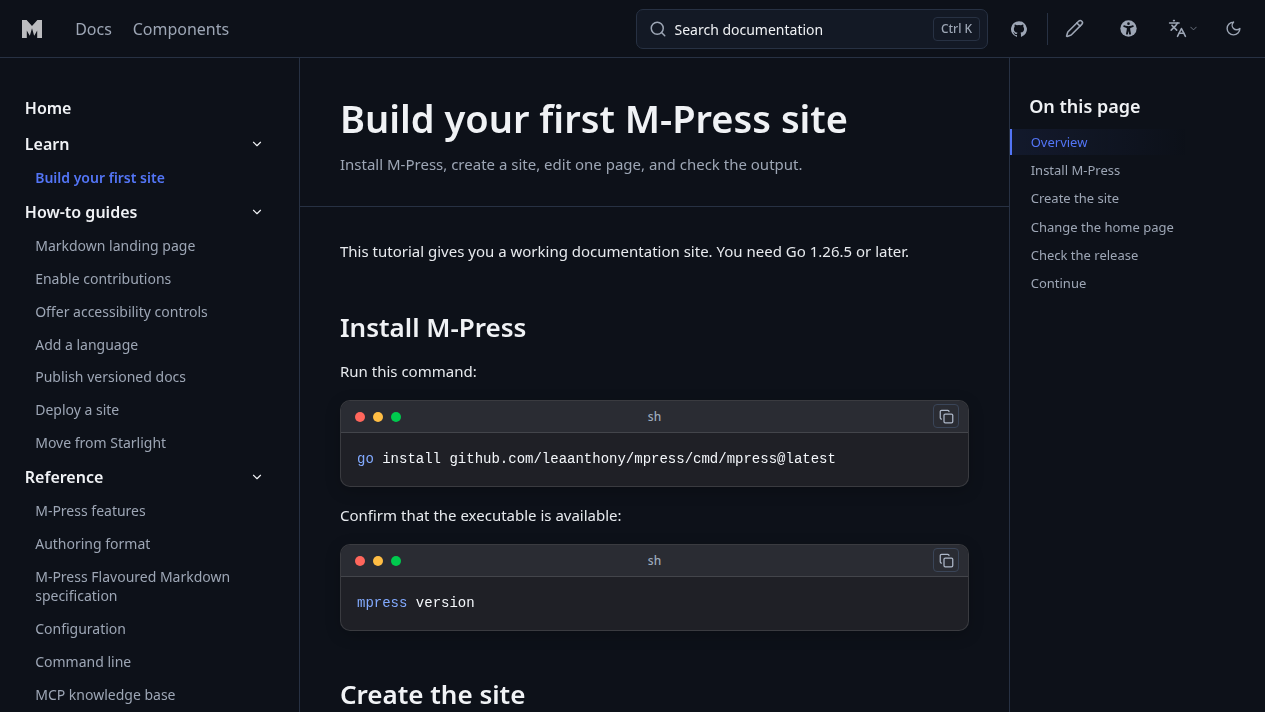
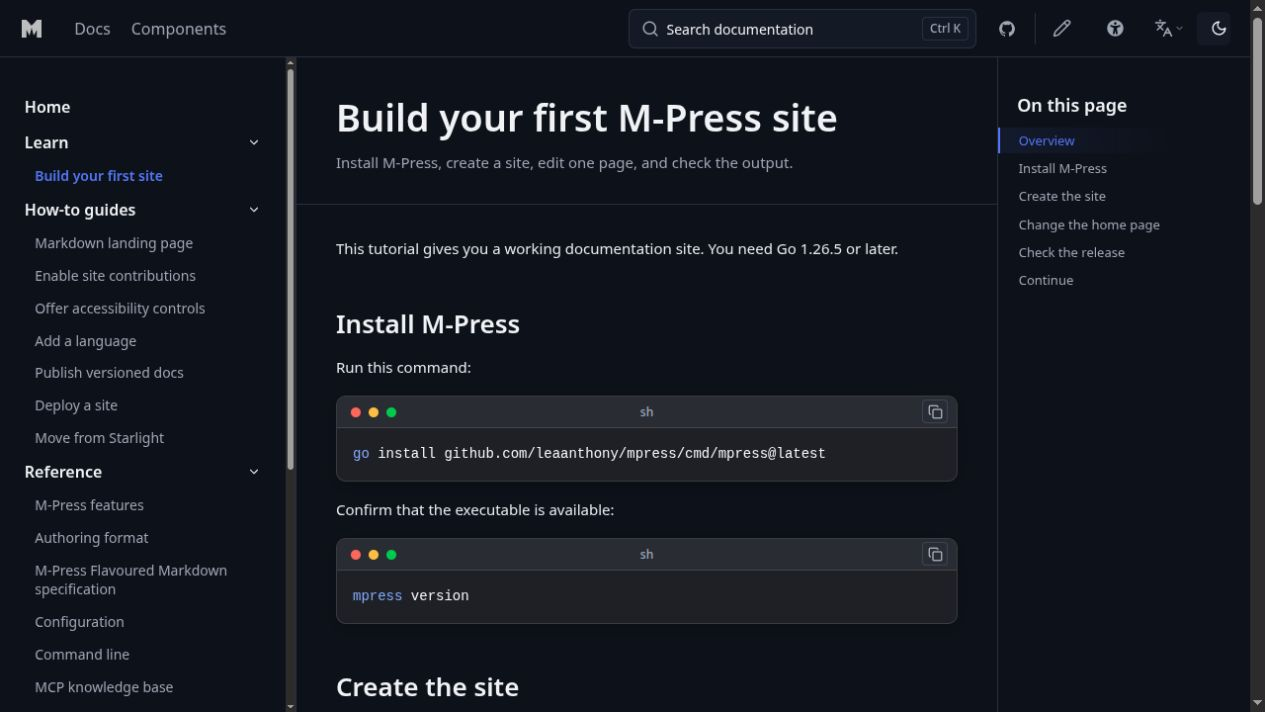
docs: replace homepage illustrations with real browser captures

diff --git a/docs-theme.css b/docs-theme.css
@@ -18,3 +18,13 @@
     height: 23px;
   }
 }
+
+.mp-home-accessibility-screenshot {
+  width: min(100%, 560px);
+  justify-self: center;
+}
+
+.mp-home-mobile-screenshot {
+  width: min(100%, 340px);
+  justify-self: center;
+}

diff --git a/docs/index.md b/docs/index.md
@@ -24,7 +24,7 @@ M-Press gives you rich components, private search, reader accessibility controls
 @end
 
 @column{variant=site-screenshot|class=mp-home-site-screenshot-hero}
-@image{light="/images/mpress-docs-light.png" dark="/images/mpress-docs-dark.png" alt="The generated M-Press tutorial site" expand}
+@image{light="/images/mpress-docs-light.png" dark="/images/mpress-docs-dark.png" alt="The M-Press first-site tutorial in the browser" expand}
 @end
 @end
 @end
@@ -188,32 +188,8 @@ One presentation cannot suit every reader. The accessibility menu is enabled by 
 @button[Read the accessibility reference](/accessibility/){secondary}
 @end
 
-@column{variant=story-visual|class=mp-home-accessibility-carousel}
-@carousel{label="Accessibility options"}
-## Reading that fits you
-
-Choose a text size, readable font, relaxed spacing, bionic emphasis, and a page width that is comfortable on your screen.
-
-- Text size: Default, Large, Larger
-- Page width: Relative or fixed
-- Readable font and relaxed spacing
----
-## Keep your place
-
-Reduce visual distraction without changing the content.
-
-- Focus mode dims navigation
-- Reading guide follows the pointer
-- Reduced motion stops non-essential animation
----
-## Improve colour and contrast
-
-Make links and controls easier to identify.
-
-- High contrast
-- Underlined links
-- Colour profiles for common colour-vision needs
-@end
+@column{variant=site-screenshot|class=mp-home-accessibility-screenshot}
+@image{light="/images/mpress-accessibility-light.png" dark="/images/mpress-accessibility-dark.png" alt="The open accessibility menu showing the complete Reading panel, including layout, reading column, font, spacing, and bionic reading controls" expand}
 @end
 @end
 @end
@@ -288,6 +264,22 @@ The development site exposes the work that is usually hidden across scripts and 
 
 @column{variant=story-visual|class="mp-home-story-image mp-home-config-screenshot"}
 @image{light="/images/mpress-config-light.png" dark="/images/mpress-config-dark.png" alt="The structured M-Press configuration editor in development mode" expand}
+@end
+@end
+@end
+
+@section{variant=story|class=mp-home-story-mobile}
+@columns{variant=story}
+@column{variant=story-copy}
+## The same site, ready for a smaller screen.
+
+Navigation, search, accessibility controls, and page content adapt to the space available. Readers get the same documentation on a phone, with controls that stay within reach.
+
+@button[Read the first-site tutorial](/tutorials/first-site/){secondary}
+@end
+
+@column{variant=site-screenshot|class=mp-home-mobile-screenshot}
+@image{light="/images/mpress-home-mobile-light.png" dark="/images/mpress-home-mobile-dark.png" alt="The actual M-Press homepage displayed in a 390-pixel-wide mobile browser viewport" expand}
 @end
 @end
 @end

diff --git a/docs/fr/index.md b/docs/fr/index.md
@@ -130,20 +130,8 @@ Une seule présentation ne convient pas à tous les lecteurs. Le menu d'accessib
 @button[Use the accessibility controls](/accessibility/){secondary}
 @end
 
-@column{variant=story-visual|class=mp-home-accessibility-visual}
-### Accessibilité
-
-**Lecture** · Focus · Vision
-
-- [x] Police lisible
-- [x] Espacement aéré
-- [x] Bionic reading
-
-**Taille du texte**
-
-Par défaut · Grand · Plus grand
-
-*Chaque contrôle dispose d'un raccourci clavier, d'un focus visible et d'une alternative à mouvement réduit.*
+@column{variant=site-screenshot|class=mp-home-accessibility-screenshot}
+@image{light="/images/mpress-accessibility-light.png" dark="/images/mpress-accessibility-dark.png" alt="Le menu d’accessibilité en anglais, avec tous les réglages de lecture" expand}
 @end
 @end
 @end
@@ -195,7 +183,7 @@ Un générateur de documentation ne doit pas imposer la même identité visuelle
 @end
 
 @column{variant=story-visual|class=mp-home-custom-visual}
-@image{light="/images/mpress-home-mobile.png" alt="The responsive M-Press landing page on a mobile screen"}
+@image{light="/images/mpress-home-mobile-light.png" dark="/images/mpress-home-mobile-dark.png" alt="The responsive M-Press landing page on a mobile screen"}
 
 ### Votre marque, à toute échelle
 

diff --git a/docs/cy/index.md b/docs/cy/index.md
@@ -135,32 +135,8 @@ Ni all un cyflwyniad fod yn addas i bob darllenydd. Mae'r ddewislen hygyrchedd w
 @button[Darllen y cyfeirnod hygyrchedd](/accessibility/){secondary}
 @end
 
-@column{variant=story-visual|class=mp-home-accessibility-carousel}
-@carousel{label="Accessibility options"}
-## Darllen sy'n addas i chi
-
-Dewiswch faint testun, ffont darllenadwy, bylchau llac, pwyslais bionig, a lled tudalen sy'n gyfforddus ar eich sgrin.
-
-- Maint testun: Diofyn, Mawr, Mwy
-- Lled tudalen: Cymharol neu sefydlog
-- Ffont darllenadwy a bylchau llac
----
-## Cadwch eich lle
-
-Lleihau pethau gweledol sy'n tynnu sylw heb newid y cynnwys.
-
-- Mae'r modd ffocws yn pylu'r llywio
-- Mae'r canllaw darllen yn dilyn y pwyntydd
-- Mae lleihau symudiad yn atal animeiddiadau nad ydynt yn hanfodol
----
-## Gwella lliw a chyferbyniad
-
-Gwnewch ddolenni a rheolyddion yn haws eu hadnabod.
-
-- Cyferbyniad uchel
-- Dolenni wedi'u tanlinellu
-- Proffiliau lliw ar gyfer anghenion golwg lliw cyffredin
-@end
+@column{variant=site-screenshot|class=mp-home-accessibility-screenshot}
+@image{light="/images/mpress-accessibility-light.png" dark="/images/mpress-accessibility-dark.png" alt="The open accessibility menu with the complete Reading panel" expand}
 @end
 @end
 @end

diff --git a/scripts/screenshots/README.md b/scripts/screenshots/README.md
@@ -1,0 +1,15 @@
+Screenshots captured from the actual built site in the Codex browser on 2026-09-18.
+Desktop tutorial: /tutorials/first-site/, viewport 1280x720, light/dark via theme button.
+Accessibility: /tutorials/first-site/ in a 1200x960 iframe viewport, Accessibility settings open, Reading tab; full-page capture cropped to the complete panel (560x768 at 506,54). No menu controls synthesized or composited.
+Mobile: / in a 390x680 iframe viewport, light/dark via theme button; native browser capture cropped to the iframe bounds (390x680 at 0,0).
+Raster conversion and crop only. No generated artwork or recreated UI.
+
+The tutorial Output tab is captured separately from a site built with the exact
+content/index.md and mpress.yaml shown in docs/tutorials/first-site.md. It uses
+a 1280x720 browser viewport in both themes.
+
+To refresh: build the docs, serve the static output locally, use the real theme
+button, and capture the browser. For a constrained viewport, embed the same
+local page in a borderless iframe with the dimensions above and crop only its
+bounds. Open Accessibility settings in the taller viewport before capturing it.
+Keep all of the Reading panel visible, including Bionic reading and Reset settings.

diff --git a/docs/fr/tutorials/first-site.md b/docs/fr/tutorials/first-site.md
@@ -78,7 +78,7 @@ accessibility:
 ```
 
 [Résultat]
-@image{light="/images/mpress-docs-light.png" dark="/images/mpress-docs-dark.png" alt="Le site de documentation généré dans M-Press" expand}
+@image{light="/images/mpress-tutorial-output-light.png" dark="/images/mpress-tutorial-output-dark.png" alt="Le site de documentation généré dans M-Press" expand}
 @end
 
 Enregistrez le fichier. Le serveur de développement reconstruit le site et actualise la page.

diff --git a/docs/tutorials/first-site.md b/docs/tutorials/first-site.md
@@ -78,7 +78,7 @@ accessibility:
 ```
 
 [Output]
-@image{light="/images/mpress-docs-light.png" dark="/images/mpress-docs-dark.png" alt="The generated documentation site in M-Press" expand}
+@image{light="/images/mpress-tutorial-output-light.png" dark="/images/mpress-tutorial-output-dark.png" alt="The generated documentation site in M-Press" expand}
 @end
 
 Save the file. The development server rebuilds the site and refreshes the page.
